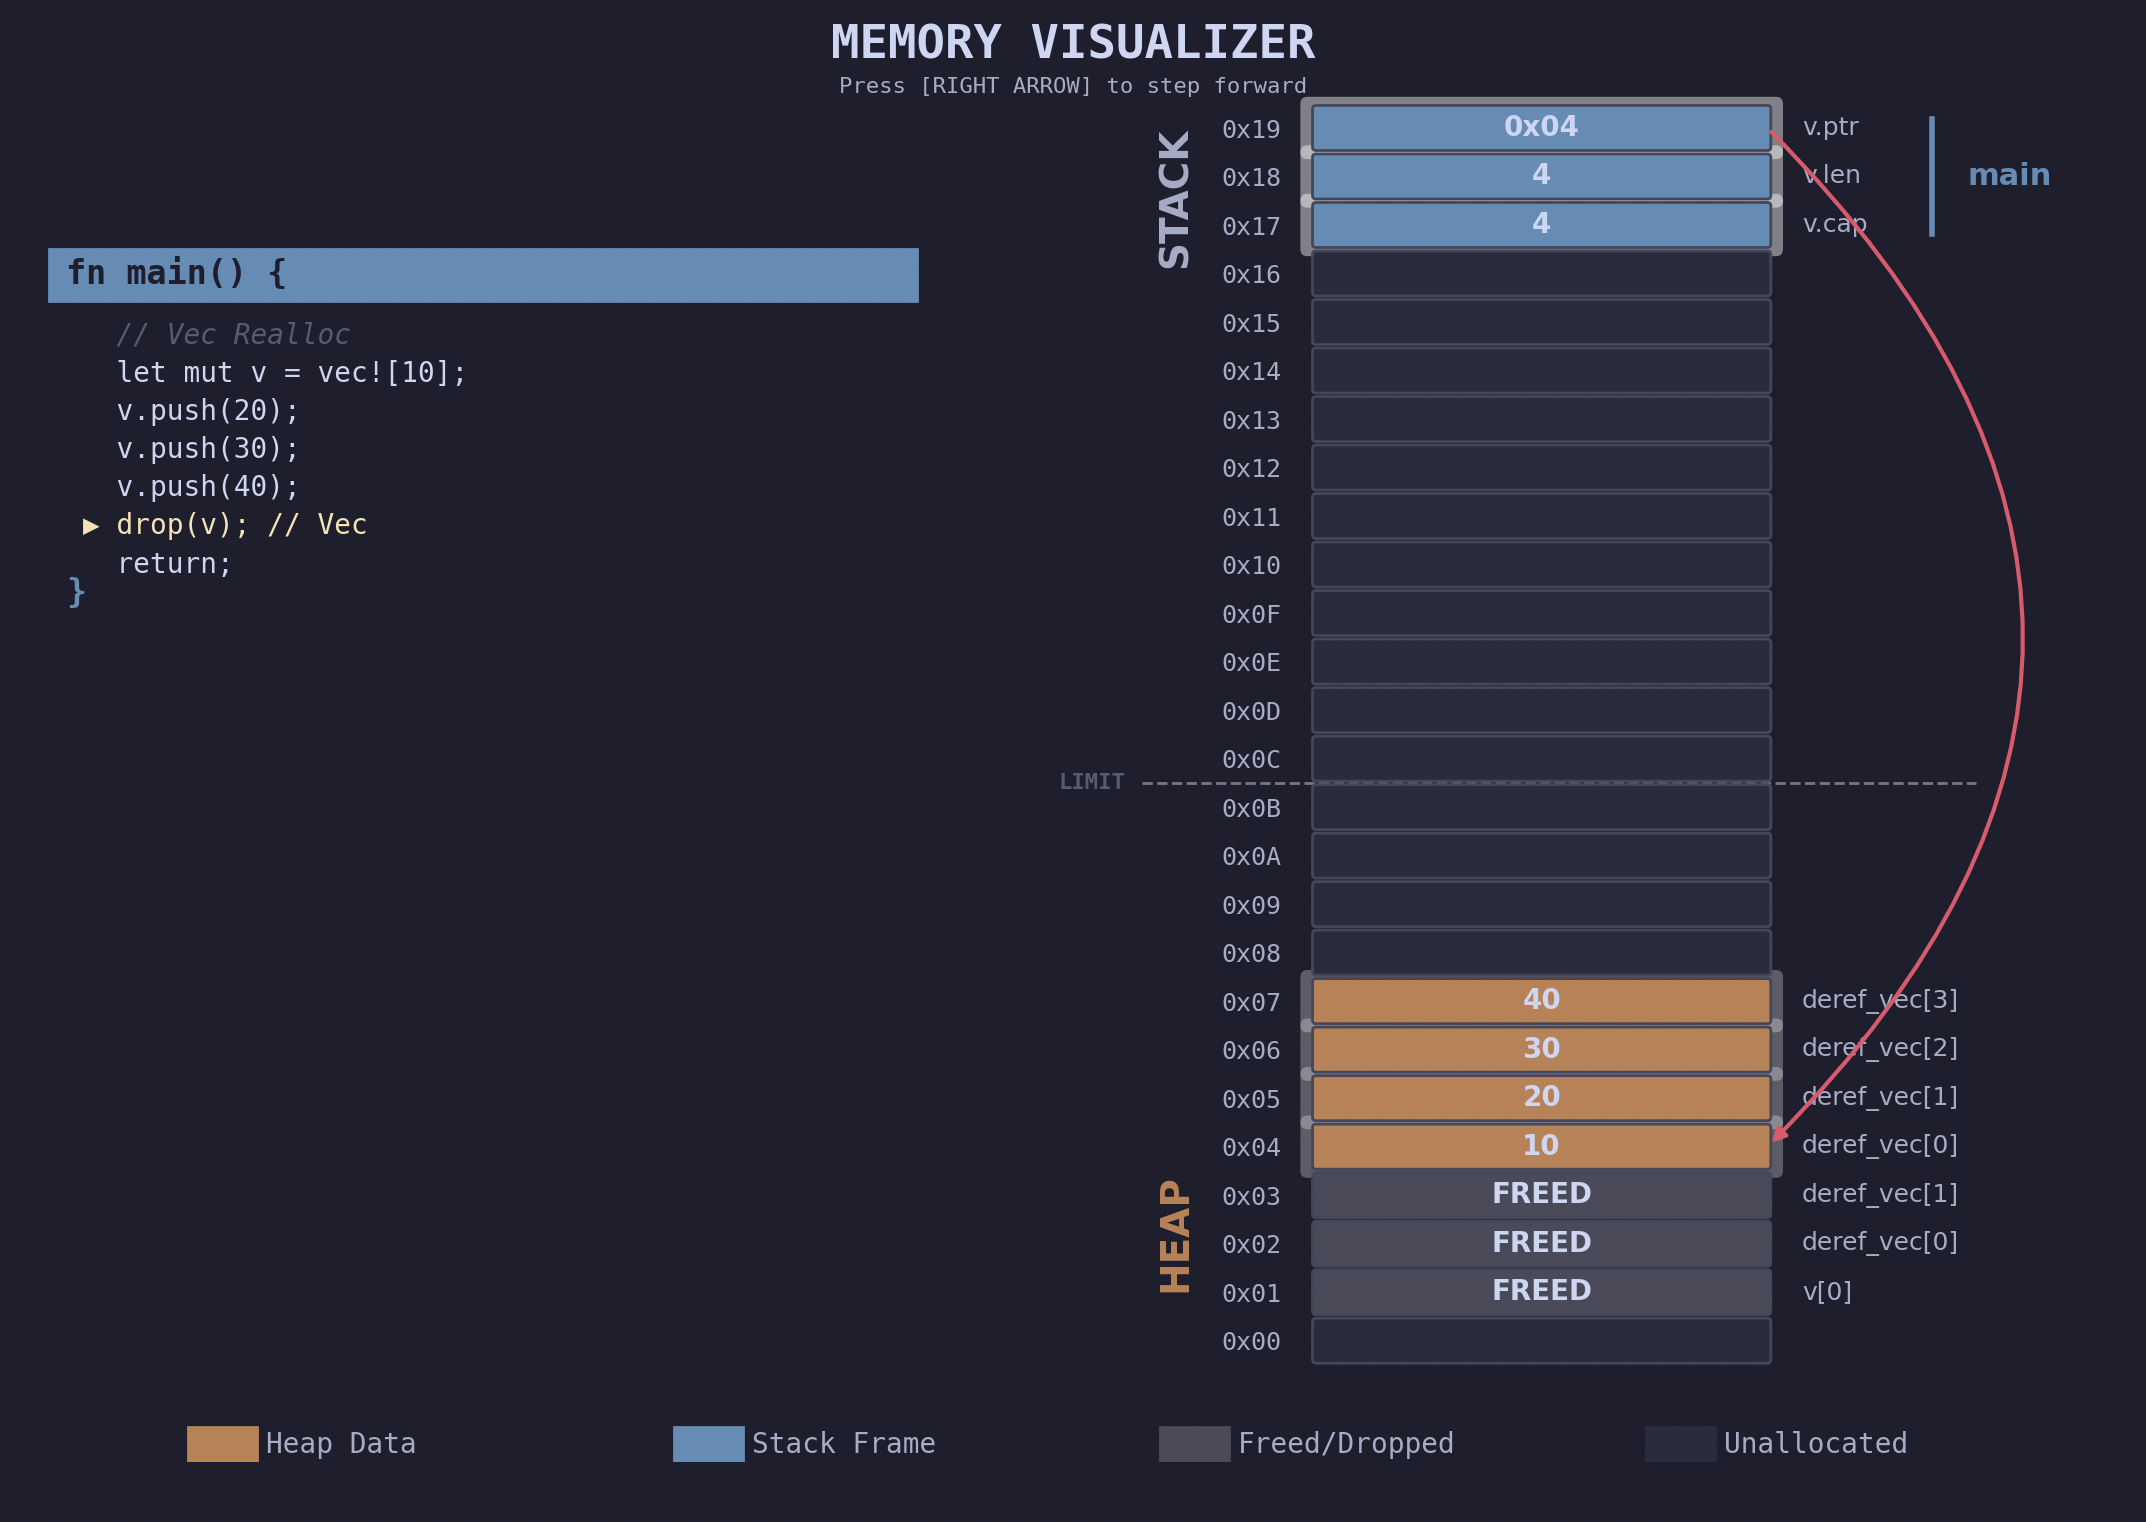
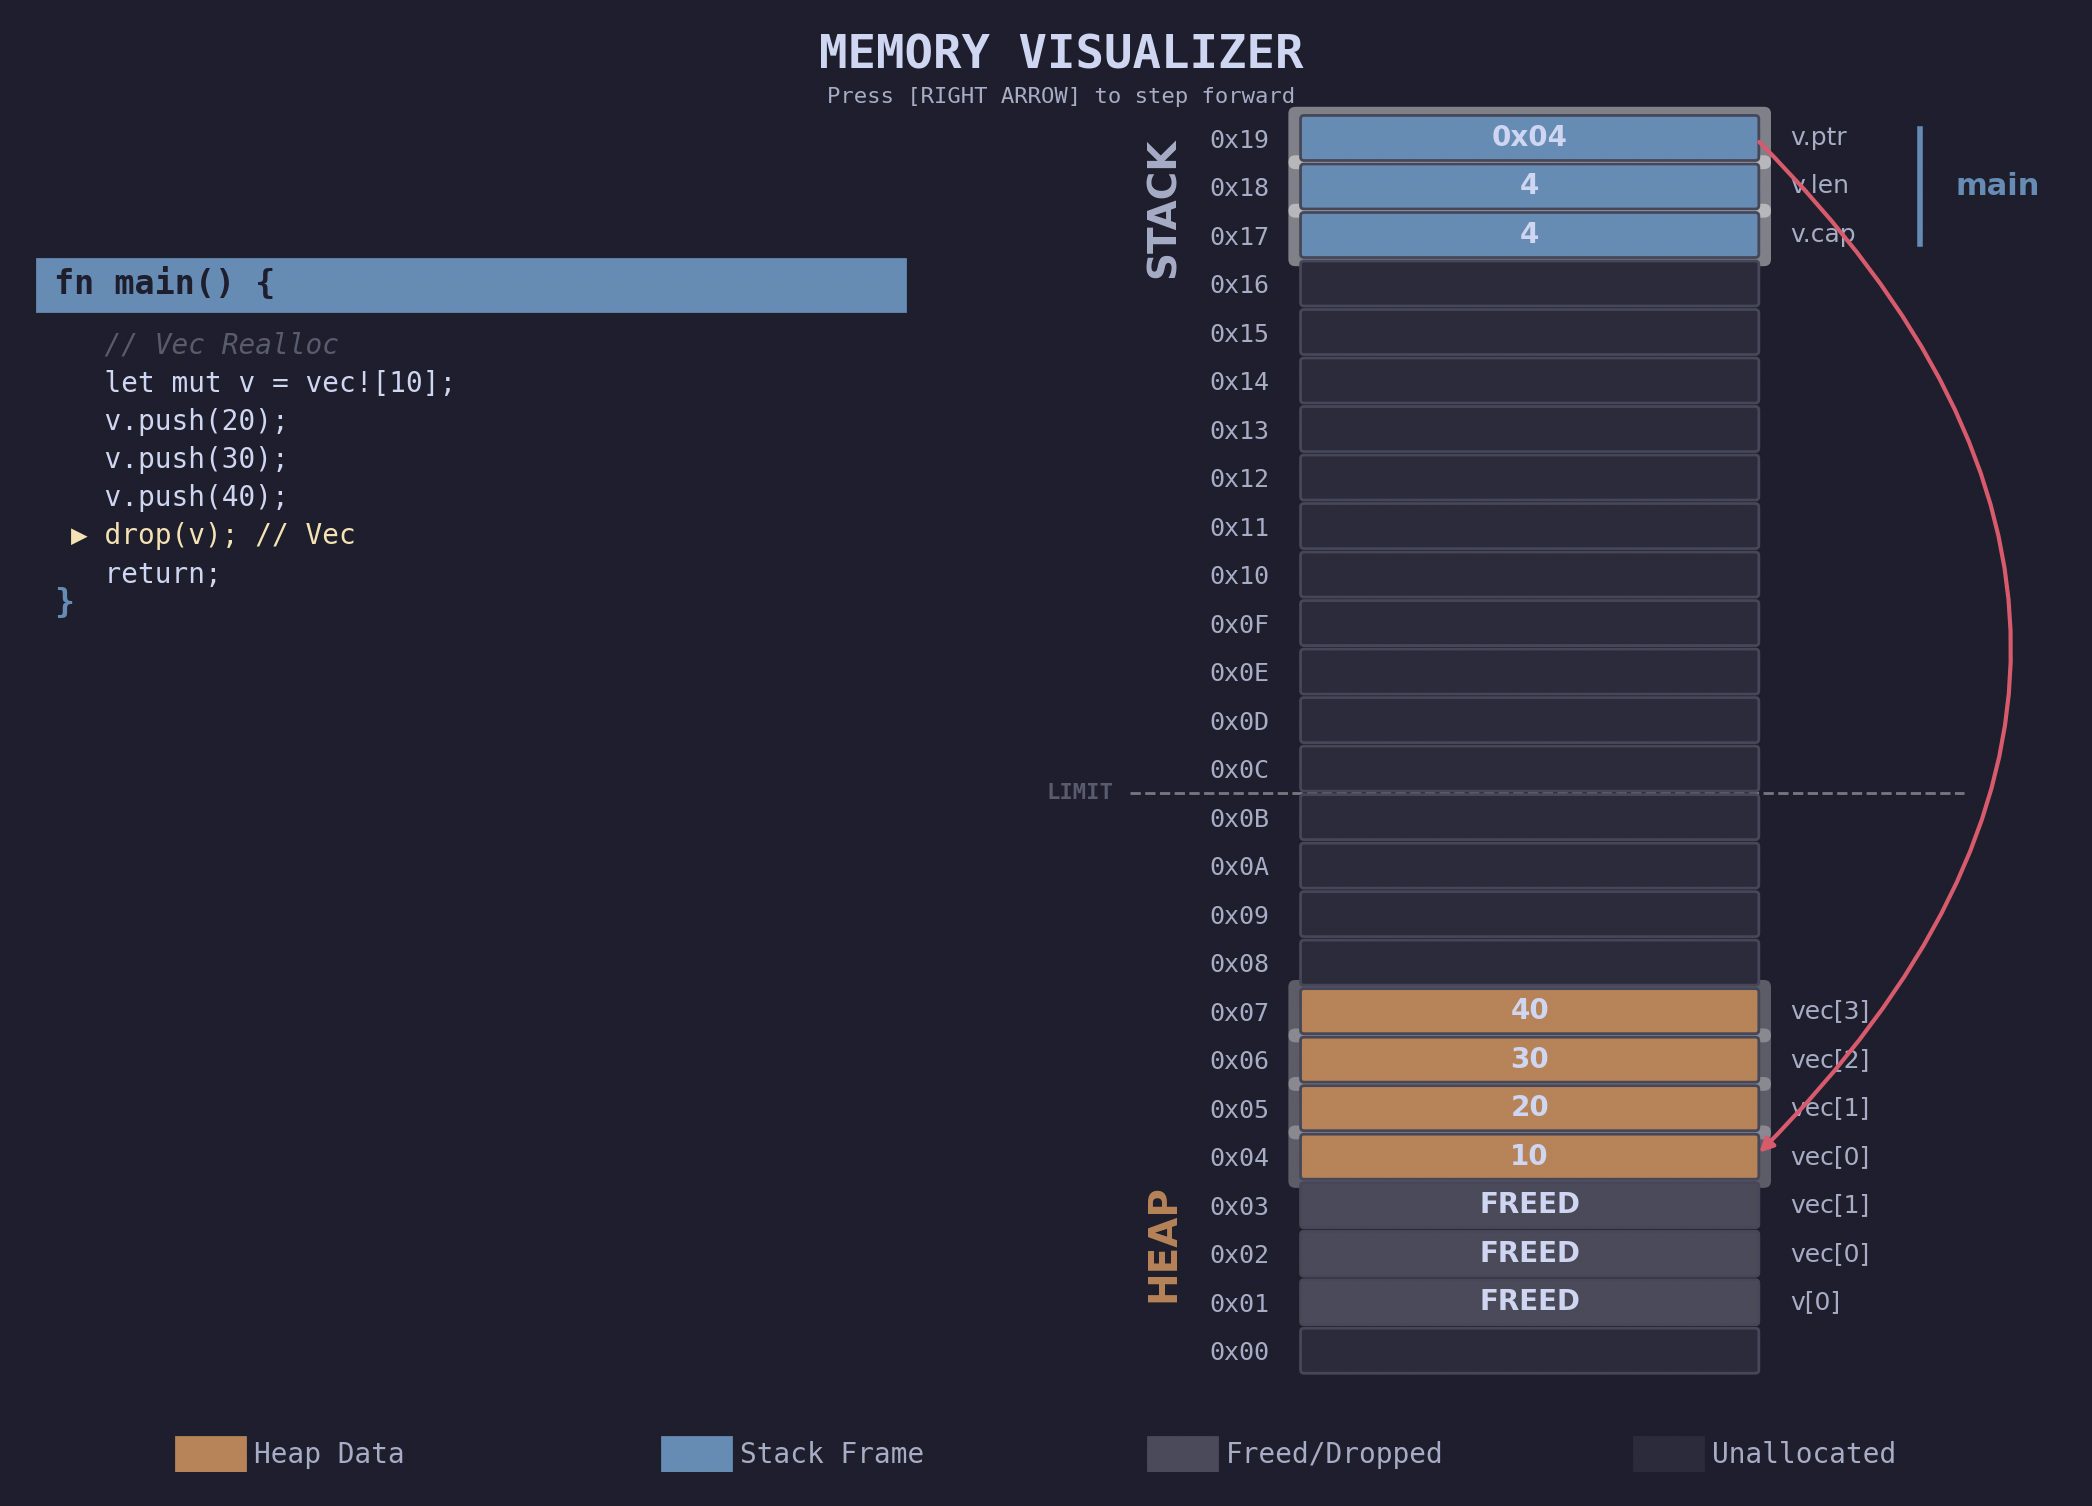
README

diff --git a/visualizer/ops/instructions.py b/visualizer/ops/instructions.py
@@ -478,7 +478,7 @@ class VecPush(Instruction):
         p_addr = mem.get_addr(f"{self.name}.ptr")
         l_addr = mem.get_addr(f"{self.name}.len")
         c_addr = mem.get_addr(f"{self.name}.cap")
-        push_vec(p_addr, c_addr, l_addr, mem, self.val)
+        push_vec(p_addr, c_addr, l_addr, mem, self.val, self.name)
 
 
 class VecPushDeref(Instruction):
@@ -502,7 +502,7 @@ class VecPushDeref(Instruction):
             l_addr = p + 1
             c_addr = p
 
-            push_vec(p_addr, c_addr, l_addr, mem, self.val)
+            push_vec(p_addr, c_addr, l_addr, mem, self.val, self.ptr_name)
         else:
             raise ValueError(
                 f"Error dereferencing: {p} does not contain a valid address."
@@ -524,7 +524,7 @@ class IfElse(Instruction):
         return self.then_body if condition_met else self.else_body
 
 
-def push_vec(p_addr, c_addr, l_addr, mem, val):
+def push_vec(p_addr, c_addr, l_addr, mem, val, name):
     ptr = mem.mem[p_addr].value
     length = mem.mem[l_addr].value
     cap = mem.mem[c_addr].value
@@ -544,10 +544,10 @@ def push_vec(p_addr, c_addr, l_addr, mem, val):
             mem.mem[old_cell_idx].freed = True
             mem.mem[old_cell_idx].value = "FREED"
             mem.mem[addr + i].value = old_val
-            mem.mem[addr + i].label = f"deref_vec[{i}]"
+            mem.mem[addr + i].label = f"{name}[{i}]"
 
         for i in range(length, new_cap):
-            mem.mem[addr + i].label = f"deref_vec[{i}]"
+            mem.mem[addr + i].label = f"{name}[{i}]"
             mem.mem[addr + i].value = None
 
         mem.mem[p_addr].value = addr
